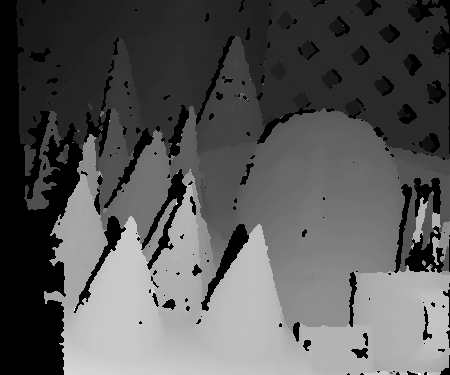
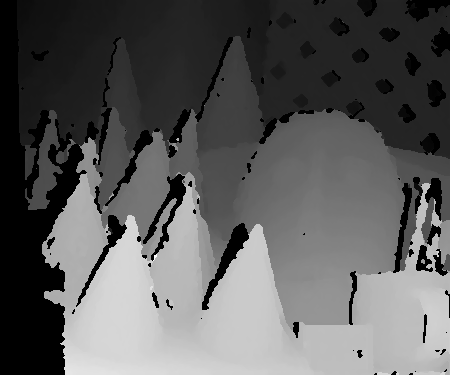
2022_08_02_Test

diff --git a/SemiGlobalMatching.cpp b/SemiGlobalMatching.cpp
@@ -87,6 +87,7 @@ SemiGlobalMatching::initialize(const uint32 &width, const uint32 &height, const 
 //    costAggregation();
 //
 //    // 视差计算
+////    computeDisparityBase2();
 //    computeDisparity();
 //
 //    // 左右一致性检查
@@ -129,8 +130,7 @@ SemiGlobalMatching::initialize(const uint32 &width, const uint32 &height, const 
 //
 //    // 视差计算
 ////    computeDisparityBase();
-//
-//    // 视差计算
+////    computeDisparityBase2();
 //    computeDisparity();
 //
 //    // 左右一致性检查
@@ -173,8 +173,7 @@ bool SemiGlobalMatching::match(const uint8 *imgLeft, const uint8 *imgRight, floa
 
     // 视差计算
 //    computeDisparityBase();
-
-    // 视差计算
+//    computeDisparityBase2();
     computeDisparity();
 
     // 左右一致性检查
@@ -290,14 +289,16 @@ void SemiGlobalMatching::costAggregation() const {
 
     // 把4/8个方向加起来
     for (sint32 i = 0; i < size; i++) {
-        if (option_.numPaths == 4) {
-            costAggr_[i] = costAggr1_[i] + costAggr2_[i] + costAggr3_[i] + costAggr4_[i];
-        }
-        if (option_.numPaths == 8) {
-            costAggr_[i] =
-                    costAggr1_[i] + costAggr2_[i] + costAggr3_[i] + costAggr4_[i] + costAggr5_[i] + costAggr6_[i] +
-                    costAggr7_[i] + costAggr8_[i];
-        }
+//        if (option_.numPaths == 4) {
+//            costAggr_[i] = costAggr1_[i] + costAggr2_[i] + costAggr3_[i] + costAggr4_[i];
+//        }
+//        if (option_.numPaths == 8) {
+//            costAggr_[i] =
+//                    costAggr1_[i] + costAggr2_[i] + costAggr3_[i] + costAggr4_[i] + costAggr5_[i] + costAggr6_[i] +
+//                    costAggr7_[i] + costAggr8_[i];
+//        }
+        costAggr_[i] = costAggr1_[i] + costAggr2_[i] + costAggr3_[i] + costAggr4_[i]
+                       + costAggr5_[i] + costAggr6_[i] + costAggr7_[i] + costAggr8_[i];
     }
 }
 
@@ -333,6 +334,62 @@ void SemiGlobalMatching::computeDisparityBase() const {
                 // 如果所有视差下的代价值都一样，则该像素无效
                 dispLeft_[i * width_ + j] = Invalid_Float;
             }
+        }
+    }
+}
+
+void SemiGlobalMatching::computeDisparityBase2() const {
+    const sint32 &minDisparity = option_.minDisparity;
+    const sint32 &maxDisparity = option_.maxDisparity;
+    const sint32 dispRange = maxDisparity - minDisparity;
+    if (dispRange <= 0) {
+        return;
+    }
+
+    // 左影像视差图
+    const auto disparity = dispLeft_;
+    // 左影像聚合代价数组
+    const auto costPtr = costAggr_;
+
+    const sint32 width = width_;
+    const sint32 height = height_;
+
+    const bool isCheckUnique = option_.isCheckUnique;
+    const float32 uniquenessRatio = option_.uniquenessRatio;
+
+    // 为了加快读取效率，把单个像素的所有代价值存储到局部数组里
+    std::vector<uint16> costLocal(dispRange);
+
+    // ---逐像素计算最优视差
+    for (sint32 i = 0; i < height; i++) {
+        for (sint32 j = 0; j < width; j++) {
+            uint16 minCost = UINT16_MAX;
+            sint32 bestDisparity = 0;
+
+            // ---遍历视差范围内的所有代价值，输出最小代价值及对应的视差值
+            for (sint32 d = minDisparity; d < maxDisparity; d++) {
+                const sint32 d_idx = d - minDisparity;
+                const auto &cost = costLocal[d_idx] = costPtr[i * width * dispRange + j * dispRange + d_idx];
+                if (minCost > cost) {
+                    minCost = cost;
+                    bestDisparity = d;
+                }
+            }
+
+            // ---子像素拟合
+            if (bestDisparity == minDisparity || bestDisparity == maxDisparity - 1) {
+                disparity[i * width + j] = Invalid_Float;
+                continue;
+            }
+            // 最优视差前一个视差的代价值cost_1，后一个视差的代价值cost_2
+            const sint32 idx_1 = bestDisparity - 1 - minDisparity;
+            const sint32 idx_2 = bestDisparity + 1 - minDisparity;
+            const uint16 cost_1 = costLocal[idx_1];
+            const uint16 cost_2 = costLocal[idx_2];
+            // 解一元二次曲线极值
+            const uint16 denom = std::max(1, cost_1 + cost_2 - 2 * minCost);
+            disparity[i * width + j] =
+                    static_cast<float32>(bestDisparity) + static_cast<float32>(cost_1 - cost_2) / (denom * 2.0f);
         }
     }
 }
@@ -562,14 +619,14 @@ void SemiGlobalMatching::computeCostSAD() const {
 
                 // 中心点超出图像范围，无法匹配
                 if (j - d < 0 || j - d >= width_) {
-                    cost = 2;
+                    cost = UINT16_MAX;
                     continue;
                 }
 
                 uint16 sum = 0;
                 sint32 rL = i, cL = j, rR = i, cR = j - d;
-                for (sint32 r = -1; r <= 1; r++) {
-                    for (sint32 c = -1; c <= 1; c++) {
+                for (sint32 r = -2; r <= 2; r++) {
+                    for (sint32 c = -2; c <= 2; c++) {
                         if (rL + r >= 0 && rL + r < height_ && cL + c >= 0 && cL + c < width_) {
                             if (rR + r >= 0 && rR + r < height_ && cR + c >= 0 && cR + c < width_) {
                                 sum += (uint16) std::abs(imgLeft_[(rL + r) * width_ + (cL + c)] -
@@ -605,8 +662,8 @@ void SemiGlobalMatching::computeCostNCC() const {
 
                 float32 avg1 = 0, avg2 = 0;
                 const sint32 rL = i, cL = j, rR = i, cR = j - d;
-                for (sint32 r = -1; r <= 1; r++) {
-                    for (sint32 c = -1; c <= 1; c++) {
+                for (sint32 r = -2; r <= 2; r++) {
+                    for (sint32 c = -2; c <= 2; c++) {
                         if (rL + r >= 0 && rL + r < height_ && cL + c >= 0 && cL + c < width_) {
                             if (rR + r >= 0 && rR + r < height_ && cR + c >= 0 && cR + c < width_) {
                                 avg1 += imgLeft_[(rL + r) * width_ + (cL + c)];
@@ -615,12 +672,12 @@ void SemiGlobalMatching::computeCostNCC() const {
                         }
                     }
                 }
-                avg1 /= 9;
-                avg2 /= 9;
+                avg1 /= 25;
+                avg2 /= 25;
 
                 float32 ncc1 = 0, ncc2 = 0, ncc3 = 0, ncc = 0;
-                for (sint32 r = -1; r <= 1; r++) {
-                    for (sint32 c = -1; c <= 1; c++) {
+                for (sint32 r = -2; r <= 2; r++) {
+                    for (sint32 c = -2; c <= 2; c++) {
                         if (rL + r >= 0 && rL + r < height_ && cL + c >= 0 && cL + c < width_) {
                             if (rR + r >= 0 && rR + r < height_ && cR + c >= 0 && cR + c < width_) {
                                 ncc1 += (imgLeft_[(rL + r) * width_ + (cL + c)] - avg1) *

diff --git a/main.cpp b/main.cpp
@@ -117,6 +117,7 @@ int main() {
     dispOpenCV.convertTo(dispOpenCV, CV_8U, 255 / (64 * 16.));
     std::vector<cv::Mat> dispVector = {dispMat, dispOpenCV};
     multipleImage(dispVector, dispMat, 2);
+    cv::imwrite("../dispOpenCV.png", dispOpenCV);
     cv::imshow("dispMapCompare", dispMat);
     cv::waitKey(0);
 

diff --git a/SemiGlobalMatching.h b/SemiGlobalMatching.h
@@ -88,6 +88,9 @@ private:
     void computeDisparityBase() const;
 
     /** \brief 视差计算 */
+    void computeDisparityBase2() const;
+
+    /** \brief 视差计算 */
     void computeDisparity() const;
 
     /** \brief 右视差计算	 */
